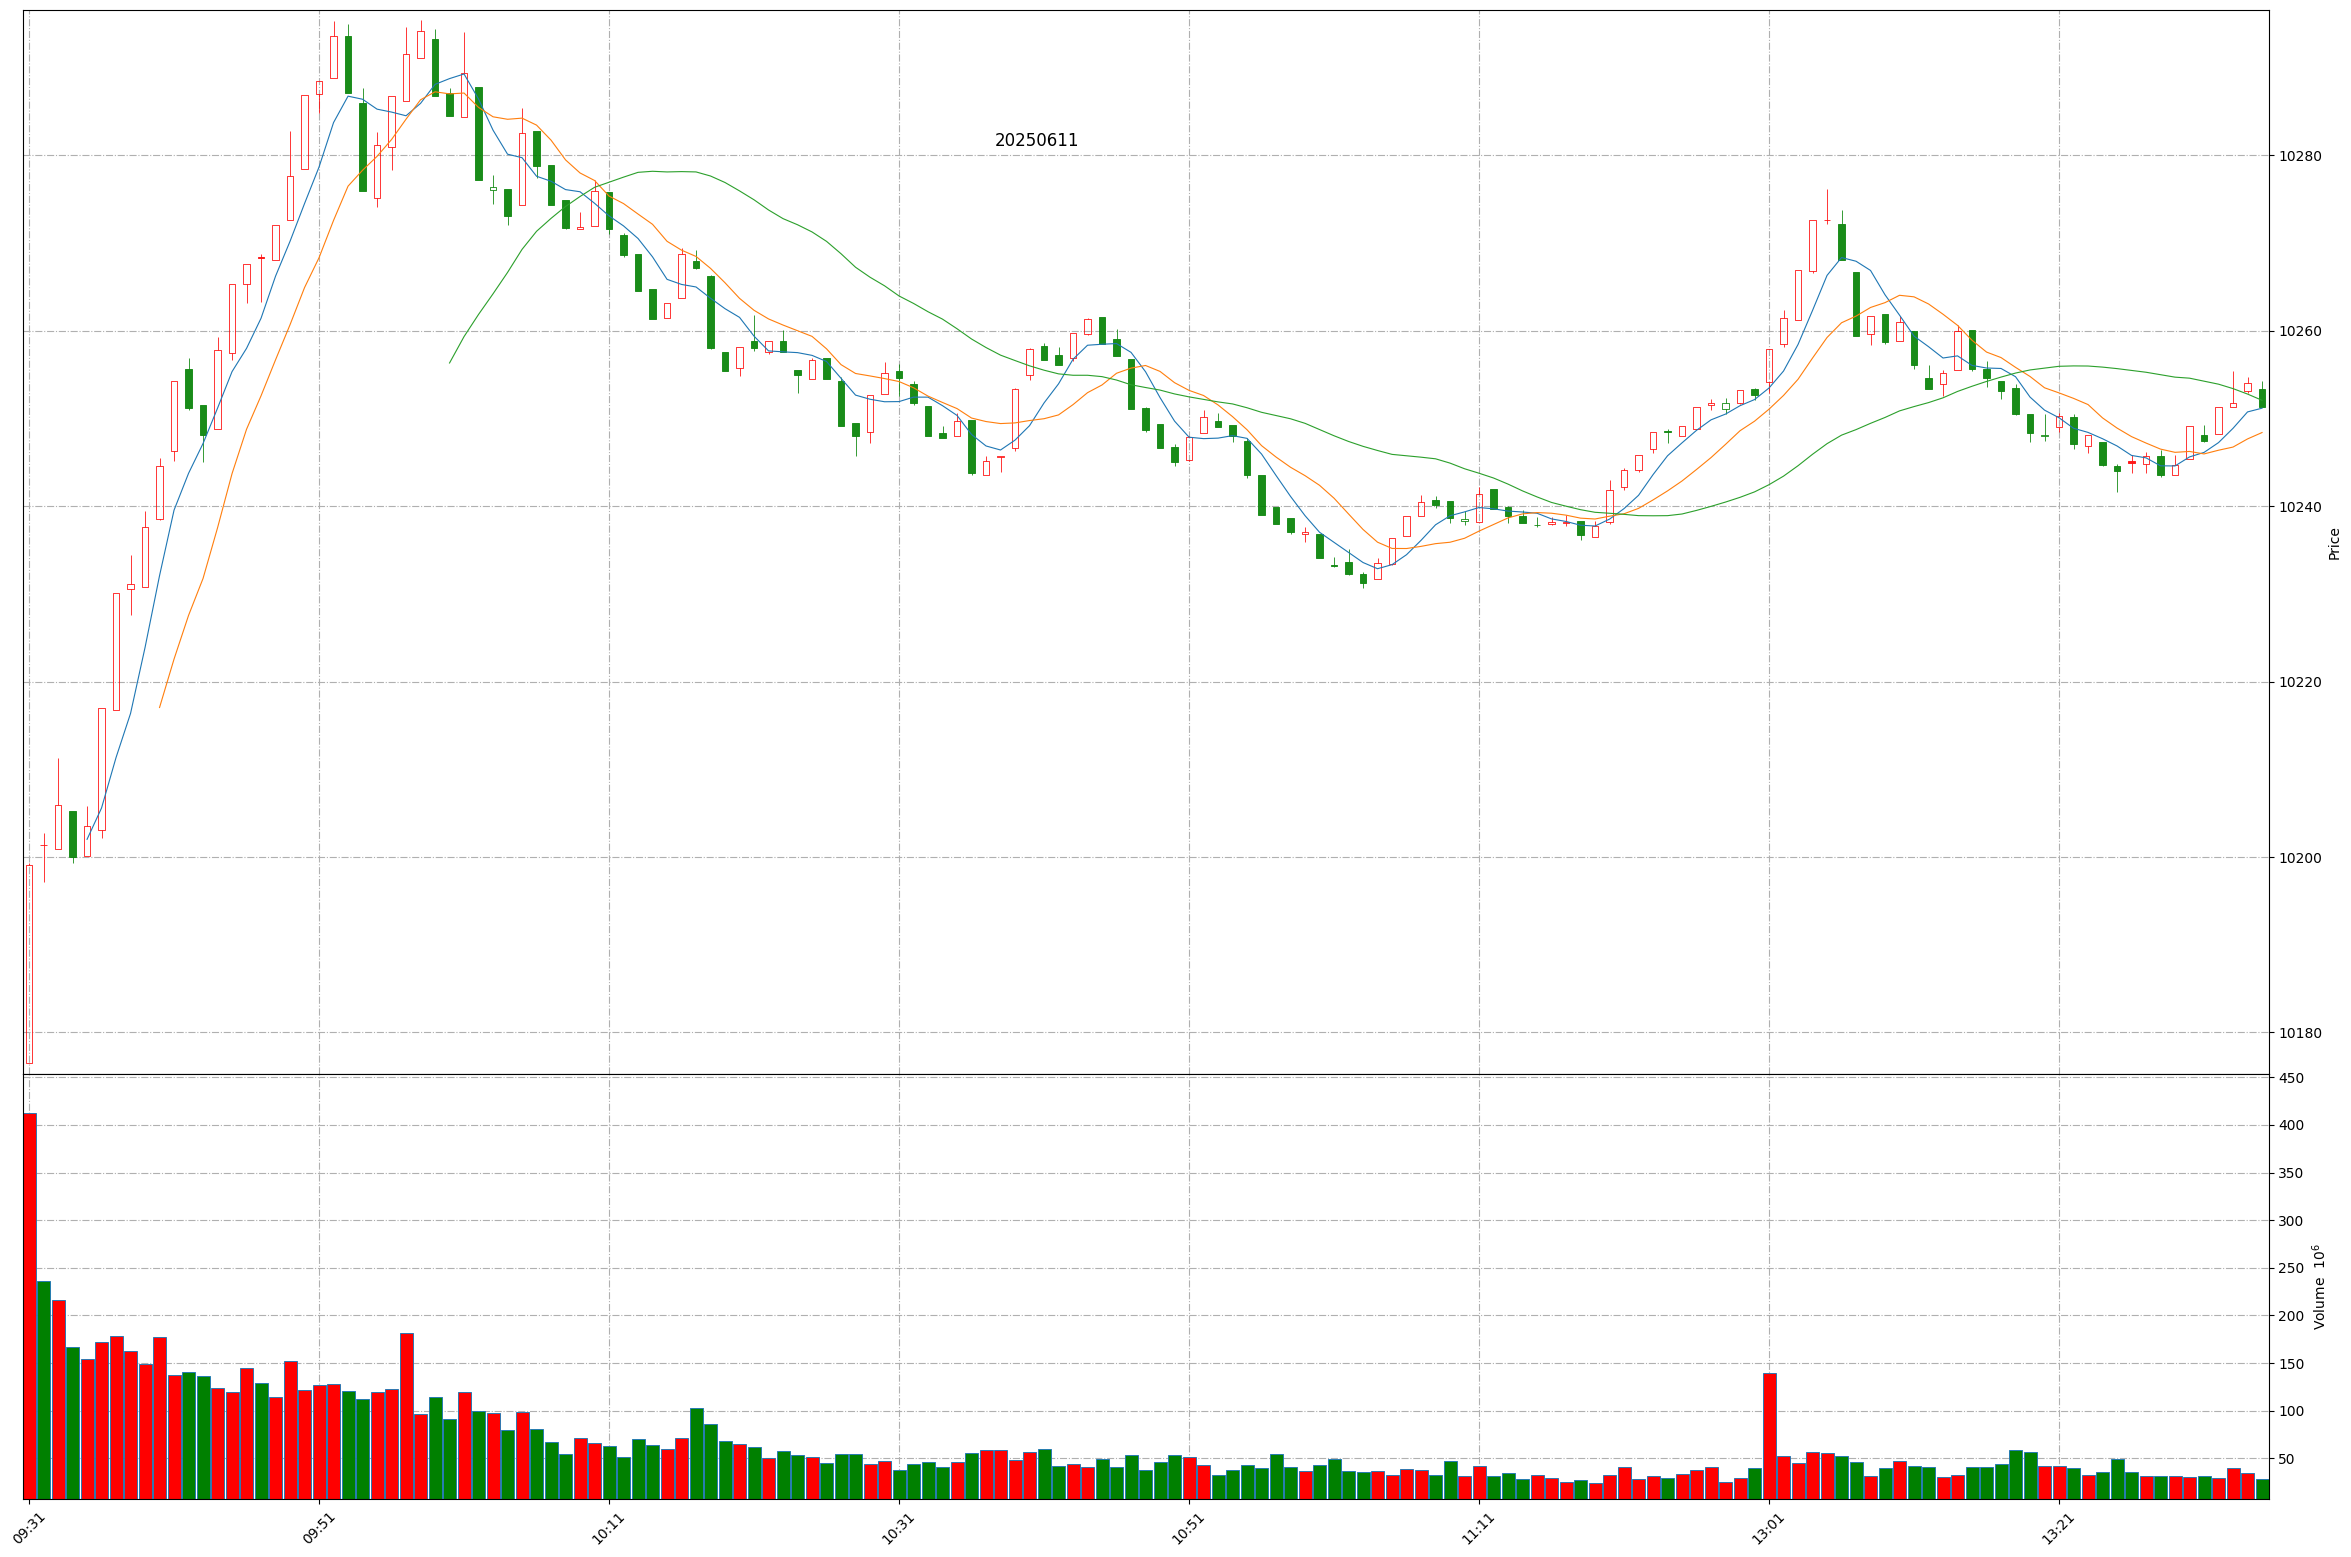
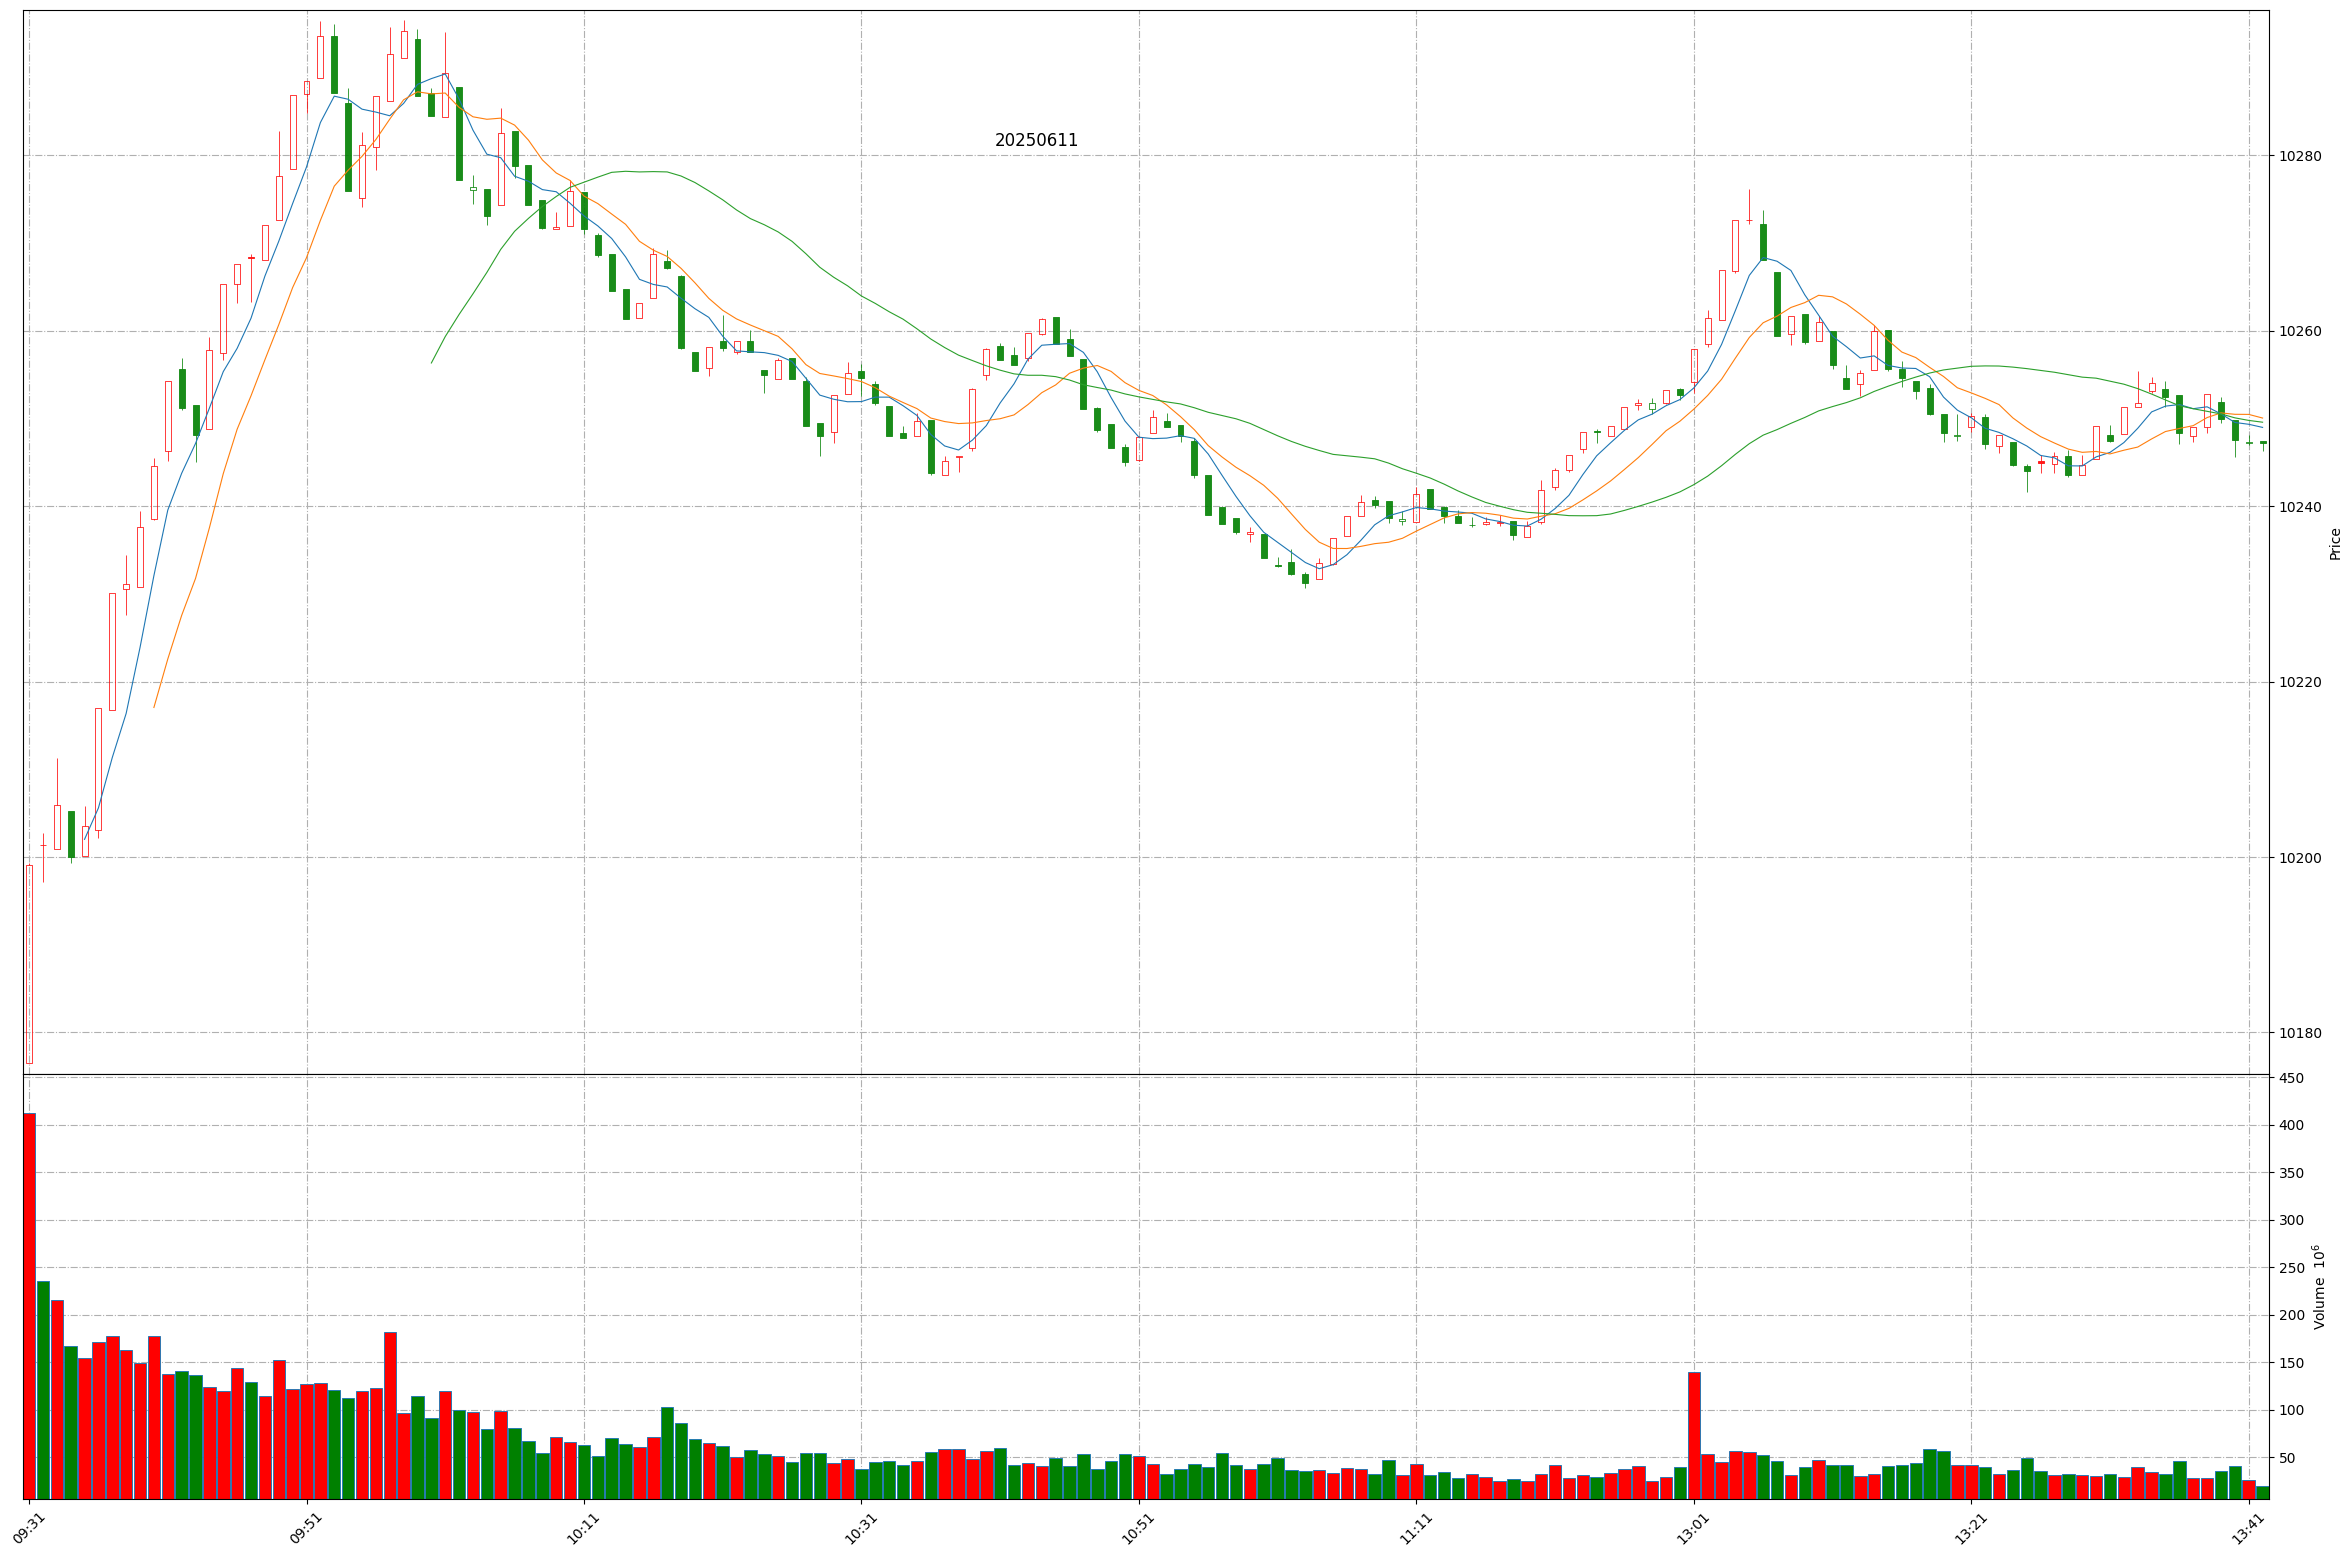
Github action update at 2025-06-11 13:41:49.

diff --git a/README.md b/README.md
@@ -1,11 +1,11 @@
 
 # Daily-A-share-market-quotes 每日 A 股指数（5min 更新）- 20250611
 
-### 上证指数 20250611 13:35
+### 上证指数 20250611 13:41
 ![](./fig/2025/6/20250611-sh000001.png)
 
-### 深证成指 20250611 13:35
+### 深证成指 20250611 13:41
 ![](./fig/2025/6/20250611-sz399001.png)
 
-### 北证50 20250611 13:35
+### 北证50 20250611 13:41
 ![](./fig/2025/6/20250611-bj899050.png)
